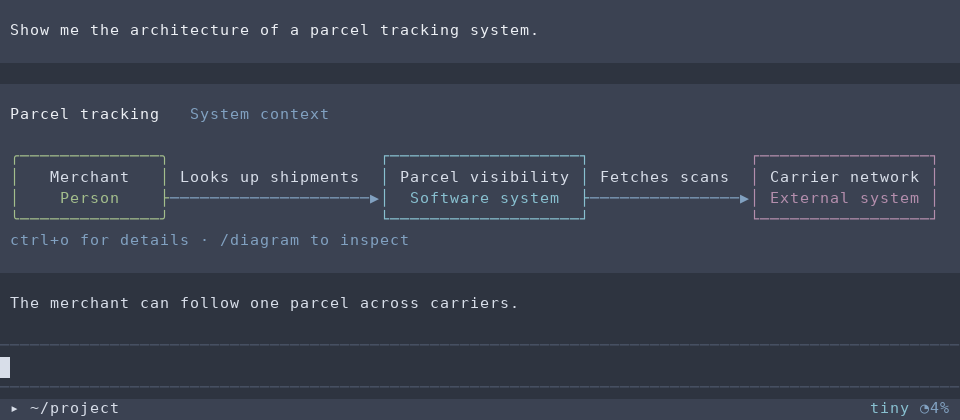
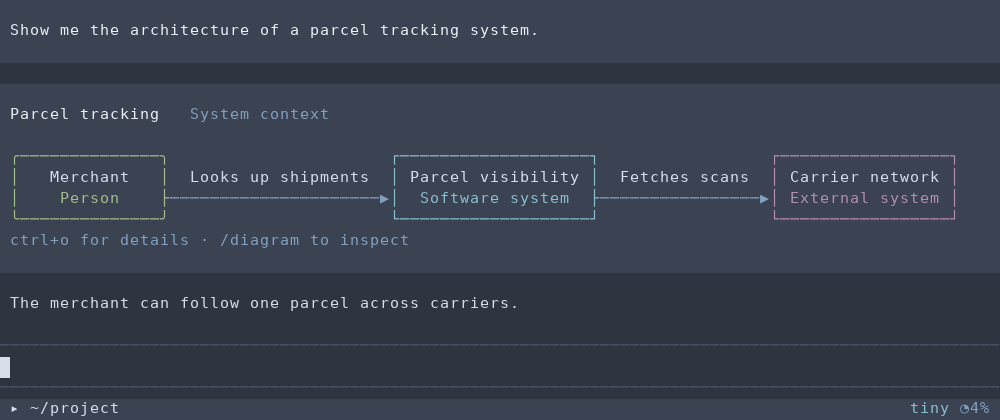
fix(diagram): separate connector arrows from architecture labels

diff --git a/tests/diagram-render.test.ts b/tests/diagram-render.test.ts
@@ -91,8 +91,8 @@ await test("context draws people and systems with directional relationships in a
   const { lines, nodeOrder } = canvas(architecture, "context", 60);
   const text = lines.join("\n");
   assert.match(text, /╭─/u);
-  assert.match(text, /▼Looks up shipments/u);
-  assert.match(text, /▼Fetches scans/u);
+  assert.match(text, /▼ Looks up shipments/u);
+  assert.match(text, /▼ Fetches scans/u);
   assert.match(text, /Software system/u);
   assert.match(text, /External system/u);
   assert.doesNotMatch(text, /HTTP|Tracking API|Rust/u);
@@ -131,7 +131,7 @@ await test("containers sit inside the named boundary; verbs and protocols belong
   assert.match(lines.join("\n"), /\[1\] HTTPS.*\[2\] HTTPS/u);
   assert.ok(
     lines.every(
-      (line) => !/▼(Reads|Appends)/u.test(line) && visibleWidth(line) <= 60,
+      (line) => !/▼\s*(Reads|Appends)/u.test(line) && visibleWidth(line) <= 60,
     ),
   );
   assert.deepEqual(nodeOrder, [

diff --git a/diagram/render.ts b/diagram/render.ts
@@ -109,8 +109,9 @@ function relationshipMap(diagram: Diagram, view: DiagramView) {
       ).length === 1;
     if (atSource) departures.set(edge.from, [`→ ${verb(edge)}`]);
     const caption = local ? verb(edge) : `${port} ${edge.label}`;
-    const compact = visibleWidth(caption) > 28;
-    const label = compact ? `[${String(i + 1)}]` : caption;
+    const compact = visibleWidth(caption) + 1 > 28;
+    // Reserve one column between the arrowhead and its caption.
+    const label = " " + (compact ? `[${String(i + 1)}]` : caption);
     // Only fixed-width placeholders enter the diagram grammar. The renderer
     // replaces entire parsed spans, so punctuation in model text stays literal.
     const symbol =

diff --git a/acceptance/diagram.py b/acceptance/diagram.py
@@ -128,7 +128,7 @@ def run(output):
         thread.start()
         cleanup.callback(thread.join, 5)
         cleanup.callback(provider.shutdown)
-        terminal = ui.Terminal(project, env, output, session, columns=96, rows=20)
+        terminal = ui.Terminal(project, env, output, session, columns=100, rows=20)
         try:
             terminal.wait(
                 lambda: any("~/project" in line and "tiny" in line for line in terminal.screen.display),
